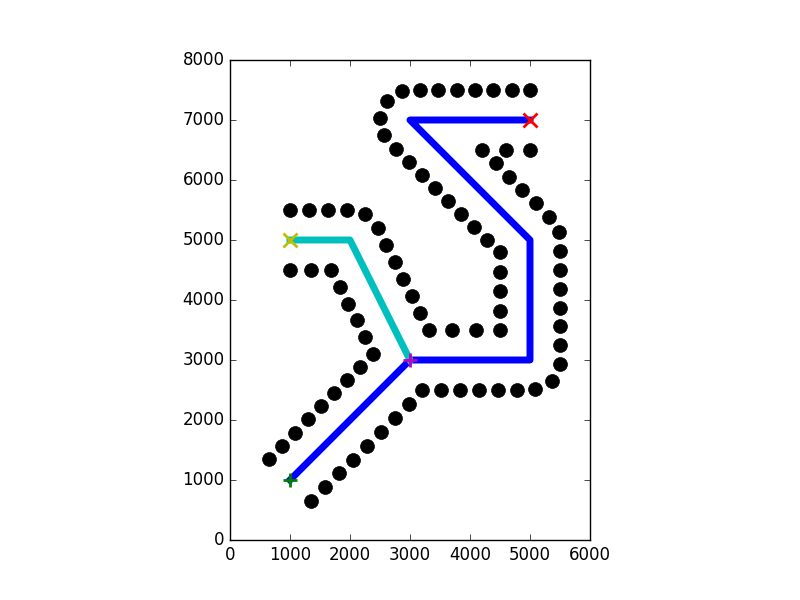
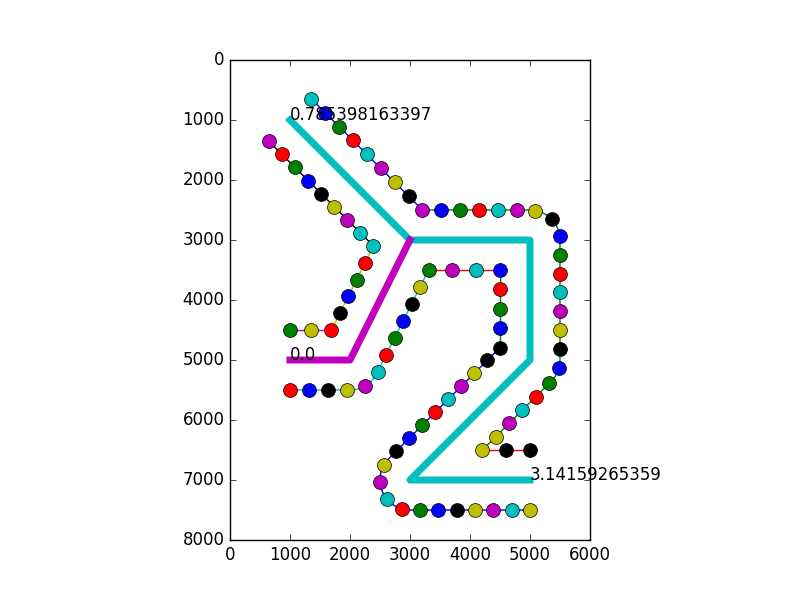
Starting integration into KiCad. Major rewrite required, since KiCad only exports its tracks as line segments

diff --git a/via-fence-generator.py b/via-fence-generator.py
@@ -1,77 +1,64 @@
 #!/usr/bin/env python2
+import pcbnew
 import math
 import pyclipper
+import collections
 from bisect import bisect_left
+from itertools import cycle
 
-# Return a sub path from start index to end index using increasing indices only
-# When endIdx is smaller then startIdx, len(path) will be added causing traversing
-# a round trip in the list instead of reversing it (python list default)
-def getSubPath(path, startIdx, endIdx):
+
+import matplotlib.pyplot as plt
+import numpy as np
+
+
+def getLineSlope(line):
+    return math.atan2(line[0][1]-line[1][1], line[0][0]-line[1][0])
+
+def getLineLength(line):
+    return math.hypot(line[0][0]-line[1][0], line[0][1]-line[1][1])
+
+def getSubPath(path, pathSpec):
     listModulus = len(path)
-    if (endIdx < startIdx): endIdx += listModulus
-    return [path[i % listModulus] for i in range(startIdx, endIdx+1)]
+    if (pathSpec[1] < pathSpec[0]): pathSpec[1] += listModulus
+    return [path[i % listModulus] for i in range(pathSpec[0], pathSpec[1]+1)]
 
-# Split a path at specific indices
-def splitPath(path, splitIdxList):
-    # Test splitIdxList wheter we use points or lines to split the path
-    if type(splitIdxList[0]) == int:
-        # We got a list of points for split operation
-        idxSkip = 1
-    elif type(splitIdxList[0]) == list:
-        # We got a list of lines for split operation
-        # Flatten the list and shift by one
-        splitIdxList = [item for sublist in splitIdxList for item in sublist]
-        splitIdxList = splitIdxList[1:] + splitIdxList[:1]
-        idxSkip = 2
+def getSubPaths(path, pathSpecList):
+    return [getSubPath(path, pathSpec) for pathSpec in pathSpecList if (pathSpec[0] != pathSpec[1])]
 
-    # Generate subpaths by dividing the original path at split indices
-    subPaths = []
-    for splitIdxListIdx in range(0, len(splitIdxList)-1, idxSkip):
-        start = splitIdxList[splitIdxListIdx]
-        end = splitIdxList[splitIdxListIdx+1]
-        subPaths += [getSubPath(path, start, end)]
+def splitPathByPoints(path, splitList):
+    pathSpecList = [[splitList[item], splitList[item+1]] for item in range(0, len(splitList)-1)]
+    return getSubPaths(path, pathSpecList)
 
-    return subPaths
+def splitPathByPaths(path, splitList):
+    pathSpecList = [[splitList[item][-1], splitList[(item+1)%len(splitList)][0]] for item in range(0, len(splitList))]
+    return getSubPaths(path, pathSpecList)
 
 # Return a cumulative distance vector representing the distance travelled along
 # the path at each path vertex
 def getPathCumDist(path):
-    previousVertex = path[0]
-    cumDist = []
-    distanceSum = 0.0
-
-    for vertex in path:
-        # calculate distance to previous vertex using pythagoras
-        # sum up the new distance to the previous distance and store into vector
-        distanceSum += math.hypot(vertex[0] - previousVertex[0], vertex[1] - previousVertex[1])
-        cumDist += [distanceSum]
-        previousVertex = vertex
+    cumDist = [0.0]
+    for vertexId in range(1, len(path)):
+        cumDist += [cumDist[-1] + getLineLength([path[vertexId], path[vertexId-1]])]
 
     return cumDist
 
-# Return a list of all vertex indices whose angle between connecting
-# lines are within angleMin and angleMax in degrees
-# This could be used to find vertices with acute angles for example
-def getPathVertices(pathList, angleMin=0, angleMax=360):
-    angleMin = angleMin * math.pi / 180
-    angleMax = angleMax * math.pi / 180
+# Return a list of all vertex indices where the angle between
+# the two lines connected to the vertex deviate from a straight
+# path more by the tolerance angle in degrees
+# This function is used to find bends that are larger than a certain angle
+def getPathVertices(pathList, angleTolerance):
+    angleTolerance = angleTolerance * math.pi / 180
     vertices = []
 
     # Look through all vertices except start and end vertex
-    # Find the angle of the connecting lines of the vertex
-    # And if it is satisfying the angle specification, store it
+    # Calculate by how much the lines before and after the vertex
+    # deviate from a straight path.
+    # If the deviation angle exceeds the specification, store it
     for vertexIdx in range(1, len(pathList)-1):
-        # Reduce three points to two position vectors (points)
-        # Calculate dot product and line lengths and use them to calculate the angle
-        ptA = [a-b for a,b in zip(pathList[vertexIdx-1], pathList[vertexIdx])]
-        ptB = [a-b for a,b in zip(pathList[vertexIdx+1], pathList[vertexIdx])]
-
-        dot = ptA[0] * ptB[0] + ptA[1] * ptB[1]
-        lenA = math.hypot(ptA[0], ptA[1])
-        lenB = math.hypot(ptB[0], ptB[1])
-        angle = math.acos(dot/(lenA*lenB))
-
-        if (angle >= angleMin) and (angle < angleMax):
+        prevSlope = getLineSlope([pathList[vertexIdx+1], pathList[vertexIdx]])
+        nextSlope = getLineSlope([pathList[vertexIdx-1], pathList[vertexIdx]])
+        deviationAngle = abs(prevSlope - nextSlope) - math.pi
+        if (abs(deviationAngle) > angleTolerance):
             vertices += [vertexIdx]
 
     return vertices
@@ -86,9 +73,10 @@ def isPointOnLine(point, line):
         return True
     return False
 
-# Returns a list of paths touching any item in a list of points
-def getPathsTouchingPoints(path, pointList):
+# Returns a list of path indices touching any item in a list of points
+def getPathsThroughPoints(path, pointList):
     touchingPaths = []
+
     for vertexIdx in range(0, len(path)-1):
         # This is the current line segment to test
         line = [ path[vertexIdx], path[vertexIdx+1] ]
@@ -124,6 +112,13 @@ class PathInterpolator:
         # Return interpolated coordinates on the original path
         return [self.xInterp(t), self.yInterp(t)]
 
+def expandPathsToPolygons(pathList, offset):
+    # Use PyclipperOffset to generate polygons that surround the original
+    # paths with a constant offset all around
+    co = pyclipper.PyclipperOffset()
+    co.AddPaths(pathList, pyclipper.JT_ROUND, pyclipper.ET_OPENROUND)
+    return co.Execute(offset)
+
 # Distribute Points along a path with equal spacing to each other
 # When the path length is not evenly dividable by the minimumSpacing,
 # the actual spacing will be larger, but still smaller than 2*minimumSpacing
@@ -133,24 +128,53 @@ def distributeAlongPath(path, minimumSpacing):
     # and determine the number of points that can fit to the path
     # determine the final pitch by dividing the total path length
     # by the rounded down number of points
-    fenceDistances = getPathCumDist(path)
-    numberOfPoints = int(math.floor(fenceDistances[-1] / minimumSpacing))
-    pointInterpolator = PathInterpolator(fenceDistances, path)
-    pointPitch = fenceDistances[-1] / numberOfPoints
-    points = []
+    distList = getPathCumDist(path)
+    nPoints = int(math.floor(distList[-1] / minimumSpacing))
+    ptInterp = PathInterpolator(distList, path)
+    return [ptInterp(ptIdx * distList[-1]/nPoints) for ptIdx in range(1, nPoints)]
 
-    for pointIdx in range(1, numberOfPoints):
-        points += [pointInterpolator(pointIdx*pointPitch)]
+def getLeafVertices(tracks):
+    leafVertices = []
+    leafVertexNeighbours = []
+    leafVertexAngles = []
 
-    return points
+    for trackA in tracks:
+        for vertexIdxA in [0,-1]:
+            vertexA = trackA[vertexIdxA]
+            vertexOccurences = 0
+            for trackB in tracks:
+                for vertexB in trackB:
+                    if (vertexA[0] == vertexB[0]) and (vertexA[1] == vertexB[1]):
+                        vertexOccurences += 1
+            if (vertexOccurences == 1):
+                # vertex appears only once in total
+                leafVertices += [vertexA]
+                # Get neighbour vertex
+                if (vertexIdxA == 0): neighbourVertex = trackA[1]
+                elif (vertexIdxA == -1): neighbourVertex = trackA[-2]
+                leafVertexAngles += [getLineSlope([neighbourVertex, vertexA])]
+
+    return leafVertices, leafVertexAngles
+
+def transformVertices(vertexList, offset, angle):
+    newVertexList = []
+    for vertex in vertexList:
+        newVertexList += [[ offset[0] + math.cos(angle) * vertex[0] - math.sin(angle) * vertex[1],
+                            offset[1] + math.sin(angle) * vertex[0] + math.cos(angle) * vertex[1] ]]
+    return newVertexList
 
 ######################
-def generateViaFence(tracks, viaOffset, viaPitch):
-    # Use PyclipperOffset to generate a polygon that surrounds the original
-    # paths with a constant offset all around
-    co = pyclipper.PyclipperOffset()
-    co.AddPaths(tracks, pyclipper.JT_ROUND, pyclipper.ET_OPENBUTT)
-    offsetTrack = co.Execute(viaOffset)[0]
+def generateViaFence(pathList, viaOffset, viaPitch):
+    offsetTrack = expandPathsToPolygons(pathList, viaOffset)[0]
+
+
+# TODO: multiple paths
+
+#    pc1 = pyclipper.Pyclipper()
+#    test = pc1.AddPaths(tracks, pyclipper.PT_SUBJECT, False)
+#    bla = pc1.Execute2(pyclipper.CT_UNION)
+
+#    tracks=(pyclipper.OpenPathsFromPolyTree(bla))
 
     # Since PyclipperOffset returns a closed path, we need to find
     # the butt lines in this closed path, i.e. the lines that are
@@ -159,13 +183,58 @@ def generateViaFence(tracks, viaOffset, viaPitch):
     # Then check if any of those vertices are located on any of
     # the polygon line segments
     # If this is the case, we consider them a butt line
-    leafVertexList = [track[idx] for idx in [0, -1] for track in tracks]
-    buttLineIdxList = getPathsTouchingPoints(offsetTrack, leafVertexList)
+    leafVertexList, leafVertexAngles = getLeafVertices(pathList)
+
+#    allVertices = [track for subTracks in tracks for track in subTracks]
+#    startEndVertexList = [track[idx] for idx in [0, -1] for track in tracks]
+#    leafVertexList = getVerticesUniqueIn(startEndVertexList, allVertices) # leafVertices are unique
+
+    # how to get the slope of leafVertex?
+    # Maybe make class Vertex inherit from namedtuple with x,y,prev,next,unique?
+    # let getVerticesUniqueIn return lines?
+    # how to find the point connected to leavVertex? search for it?
+    # Can we get indexes from getVerticesUniqueIn? has to be hierachical: LineIdx, pointIdx
+    # Rotate the cutRect to match the end style thing
+    # pyclipper.clip(not) it
+    for idx in range(0, len(leafVertexList)):
+        plt.text(leafVertexList[idx][0], leafVertexList[idx][1], leafVertexAngles[idx])
+
+
+    cutRect = [ [0, -1.5*viaOffset], [0, 0], [0, 1.5*viaOffset], [-1.5*viaOffset, 1.5*viaOffset], [-1.5*viaOffset, -1.5*viaOffset] ]
+
+    cutRects = []
+    for vertexPos, vertexAngle in zip(leafVertexList, leafVertexAngles):
+        newRect = transformVertices(cutRect, vertexPos, vertexAngle)
+        cutRects += [newRect]
+#        plt.plot(np.array(newRect).T[0], np.array(newRect).T[1])
+
+    pc = pyclipper.Pyclipper()
+    pc.AddPath(offsetTrack, pyclipper.PT_SUBJECT, True)
+    pc.AddPaths(cutRects, pyclipper.PT_CLIP, True)
+    offsetTrack = pc.Execute(pyclipper.CT_DIFFERENCE)[0]
+
+ #   plt.plot(np.array(offsetTrack).T[0], np.array(offsetTrack).T[1])
+
+
+    buttLineIdxList = getPathsThroughPoints(offsetTrack, leafVertexList)
+    print(buttLineIdxList)
+    for buttLineIdx in buttLineIdxList:
+        buttLine = [ offsetTrack[buttLineIdx[0]], offsetTrack[buttLineIdx[1]] ]
+#        plt.plot(np.array(buttLine).T[0], np.array(buttLine).T[1])
+#        plt.plot(buttLine[0][0], buttLine[0][1], '+', markersize=10)
+#        plt.plot(buttLine[1][0], buttLine[1][1], 'x', markersize=10)
 
     # The butt lines are used to split up the closed polygon into multiple
     # separate open paths to the left and the right of the original tracks
-    fencePaths = splitPath(offsetTrack, buttLineIdxList)
+    fencePaths = splitPathByPaths(offsetTrack, buttLineIdxList)
     viaPoints = []
+
+    for path in fencePaths:
+        pass
+#        plt.plot(np.array(path).T[0], np.array(path).T[1])
+#        plt.plot(path[0][0], path[0][1], '+', markersize=10, markeredgewidth=2)
+#        plt.plot(path[-1][0], path[-1][1], 'x', markersize=10, markeredgewidth=2)
+
 
     # With the now separated open paths we perform via placement on each one of them
     for fencePath in fencePaths:
@@ -173,51 +242,99 @@ def generateViaFence(tracks, viaOffset, viaPitch):
         # satisfying a defined specification. This way non-smooth (i.e. non-arcs) are
         # identified in the fence path. We use these to place fixed vias on their positions
         # We also use start and end vertices of the fence path as fixed via locations
-        fixPointIdxList = [0] + getPathVertices(fencePath, 0, 170) + [-1]
+        fixPointIdxList = [0] + getPathVertices(fencePath, 10) + [-1]
         viaPoints += [fencePath[idx] for idx in fixPointIdxList]
 
+#        continue
         # Then we autoplace vias between the fixed via locations by satisfying the
         # minimum via pitch given by the user
-        for subPath in splitPath(fencePath, fixPointIdxList):
+        for subPath in splitPathByPoints(fencePath, fixPointIdxList):
             # Now equally space the vias along the subpath using the given minimum pitch
             # Add the generated vias to the list
             viaPoints += distributeAlongPath(subPath, viaPitch)
+            plt.plot(np.array(subPath).T[0], np.array(subPath).T[1])
+            pass
 
     return viaPoints
 
+
+
 if __name__ == "__main__":
+    import csv
+
+    def readPath(stream):
+        pathList = []
+        for row in csv.reader(stream, delimiter=','):
+            vertices = [field.split(';') for field in row]
+            pathList += [ [ [int(xy) for xy in vertex] for vertex in vertices ] ]
+        return pathList
+
     # Set some via parameters
     # generate some test paths and run
     viaOffset = 500
     viaPitch = 300
 
-    tracks = [ [ [1000, 1000], [3000, 3000], [5000, 3000], [5000, 5000], [3000, 7000], [5000, 7000] ],
-                [ [3000, 3000], [2000, 5000], [1000, 5000] ] ]
+    with open('via-fence-generator-track.csv', 'rb') as file:
+        pathList = readPath(file)
 
-    viaPoints = generateViaFence(tracks, viaOffset, viaPitch)
+    viaPoints = generateViaFence(pathList, viaOffset, viaPitch)
 
-
-    # This is just for plotting stuff
-    import matplotlib.pyplot as plt
-    import numpy as np
-
-    def plotPaths(pathList, **kwargs):
-        for path in pathList:
-            plt.plot(np.array(path).T[0], np.array(path).T[1], **kwargs)
-            plt.plot(path[0][0], path[0][1], '+', **kwargs)
-            plt.plot(path[-1][0], path[-1][1], 'x', **kwargs)
-
-    def plotPoints(points, **kwargs):
-        plt.plot(np.array(points).T[0], np.array(points).T[1], 'o', **kwargs)
-
-
-
-    # plot the result
-    plotPaths(tracks, linewidth=5, markersize=10, markeredgewidth=2)
-    plotPoints(viaPoints, markersize=10)
+    for path in pathList:
+        plt.plot(np.array(path).T[0], np.array(path).T[1], linewidth=5)
+    for via in viaPoints:
+        plt.plot(via[0], via[1], 'o', markersize=10)
 
     plt.axes().set_aspect('equal','box')
     plt.xlim(0, 6000)
     plt.ylim(0, 8000)
+    plt.ylim(plt.ylim()[::-1])
     plt.savefig('via-fence-generator.png')
     plt.show()
+
+    exit(0)
+
+
+# Python plugin stuff
+class ViaFenceGenerator(pcbnew.ActionPlugin):
+    def defaults(self):
+        self.name = "Add a via fence to the PCB"
+        self.category = "Modify PCB"
+        self.description = "Automatically add a via fence to a net or tracks on the PCB"
+
+    def Run(self):
+        pcbObj = pcbnew.GetBoard()
+
+        netName = 'Net-(U1-Pad2)'
+        viaOffset = pcbnew.FromMM(0.5)
+        viaPitch =  pcbnew.FromMM(1)
+
+#        netId = pcbObj.FindNet(netName).GetNet()
+        netId = pcbObj.GetHighLightNetCode()
+
+        if (netId != -1):
+            netTracks = pcbObj.TracksInNet(netId)
+
+            trackList = [ [[t.GetStart()[0], t.GetStart()[1]], [t.GetEnd()[0], t.GetEnd()[1]]] for t in netTracks ]
+            viaPoints = generateViaFence(trackList, viaOffset, viaPitch)
+
+
+            for track in trackList:
+                plt.plot(np.array(track).T[0], np.array(track).T[1], linewidth=1)
+            for via in viaPoints:
+                plt.plot(via[0], via[1], 'o', markersize=10)
+
+
+            plt.ylim(plt.ylim()[::-1])
+            plt.axes().set_aspect('equal','box')
+        #    plt.xlim(0, 6000)
+        #    plt.ylim(0, 8000)
+            plt.show()
+
+
+
+
+
+
+
+ViaFenceGenerator().register()
+
